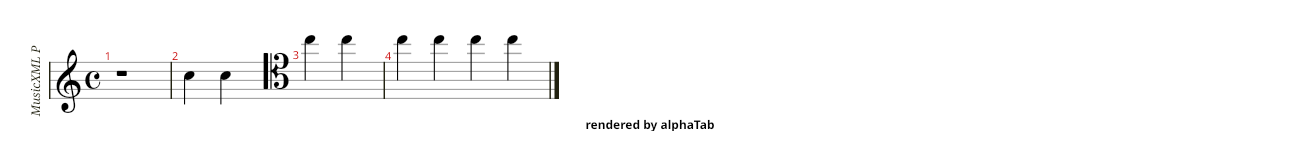
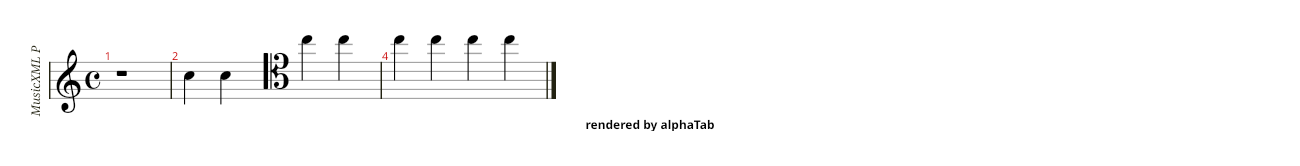
test: update test snapshots

Changed region(s): [[0.2154, 0.3012, 0.4, 0.512], [0.2154, 0.2108, 0.4, 0.2711], [0.4, 0.3614, 0.4308, 0.6024]]

diff --git a/packages/alphatab/test/visualTests/features/Layout.test.ts b/packages/alphatab/test/visualTests/features/Layout.test.ts
@@ -328,4 +328,90 @@ describe('LayoutTests', () => {
             }
         );
     });
+
+    describe('barnumberdisplay', () => {
+        describe('stylesheet', () => {
+            it('all', async () =>
+                await VisualTestHelper.runVisualTestTex(
+                    `
+                    \\defaultBarNumberDisplay allBars
+                    C4.1 | C4.1 | C4.1 |
+                    C4.1 | C4.1 | C4.1 
+                    `,
+                    'test-data/visual-tests/layout/barnumberdisplay-stylesheet-all.png',
+                    undefined,
+                    o => {
+                        o.settings.display.layoutMode = LayoutMode.Parchment;
+                    }
+                ));
+            it('first', async () =>
+                await VisualTestHelper.runVisualTestTex(
+                    `
+                    \\defaultBarNumberDisplay firstOfSystem
+                    C4.1 | C4.1 | C4.1 |
+                    C4.1 | C4.1 | C4.1 
+                    `,
+                    'test-data/visual-tests/layout/barnumberdisplay-stylesheet-first.png',
+                    undefined,
+                    o => {
+                        o.settings.display.layoutMode = LayoutMode.Parchment;
+                    }
+                ));
+            it('hide', async () =>
+                await VisualTestHelper.runVisualTestTex(
+                    `
+                    \\defaultBarNumberDisplay hide
+                    C4.1 | C4.1 | C4.1 |
+                    C4.1 | C4.1 | C4.1 
+                    `,
+                    'test-data/visual-tests/layout/barnumberdisplay-stylesheet-hide.png',
+                    undefined,
+                    o => {
+                        o.settings.display.layoutMode = LayoutMode.Parchment;
+                    }
+                ));
+        });
+
+        describe('bar-override', () => {
+            it('all', async () =>
+                await VisualTestHelper.runVisualTestTex(
+                    `
+                    \\defaultBarNumberDisplay allBars
+                    C4.1 | \\barNumberDisplay hide C4.1 | C4.1 |
+                    C4.1 | C4.1 | C4.1 
+                    `,
+                    'test-data/visual-tests/layout/barnumberdisplay-bar-override-all.png',
+                    undefined,
+                    o => {
+                        o.settings.display.layoutMode = LayoutMode.Parchment;
+                    }
+                ));
+            it('first', async () =>
+                await VisualTestHelper.runVisualTestTex(
+                    `
+                    \\defaultBarNumberDisplay firstOfSystem
+                    C4.1 | \\barNumberDisplay allBars C4.1 | C4.1 |
+                    \\barNumberDisplay hide C4.1 | C4.1 | C4.1 
+                    `,
+                    'test-data/visual-tests/layout/barnumberdisplay-bar-override-first.png',
+                    undefined,
+                    o => {
+                        o.settings.display.layoutMode = LayoutMode.Parchment;
+                    }
+                ));
+            it('hide', async () =>
+                await VisualTestHelper.runVisualTestTex(
+                    `
+                    \\defaultBarNumberDisplay hide
+                    C4.1 | \\barNumberDisplay allBars C4.1 | C4.1 |
+                    \\barNumberDisplay firstOfSystem C4.1 | \\barNumberDisplay firstOfSystem C4.1 | C4.1 
+                    `,
+                    'test-data/visual-tests/layout/barnumberdisplay-bar-override-hide.png',
+                    undefined,
+                    o => {
+                        o.settings.display.layoutMode = LayoutMode.Parchment;
+                    }
+                ));
+        });
+    });
 });

diff --git a/packages/alphatab/src/rendering/LineBarRenderer.ts b/packages/alphatab/src/rendering/LineBarRenderer.ts
@@ -6,6 +6,7 @@ import { GraceType } from '@coderline/alphatab/model/GraceType';
 import { ModelUtils } from '@coderline/alphatab/model/ModelUtils';
 import { MusicFontSymbol } from '@coderline/alphatab/model/MusicFontSymbol';
 import type { Note } from '@coderline/alphatab/model/Note';
+import { BarNumberDisplay } from '@coderline/alphatab/model/RenderStylesheet';
 import type { TupletGroup } from '@coderline/alphatab/model/TupletGroup';
 import { NotationElement, NotationMode } from '@coderline/alphatab/NotationSettings';
 import { CanvasHelper, type ICanvas, TextAlign, TextBaseline } from '@coderline/alphatab/platform/ICanvas';
@@ -172,14 +173,15 @@ export abstract class LineBarRenderer extends BarRendererBase {
         // override in subclasses
     }
 
-    protected createStartSpacing(): void {
+    protected createStartSpacing(): boolean {
         if (this._startSpacing) {
-            return;
+            return false;
         }
         const padding =
             this.index === 0 ? this.settings.display.firstStaffPaddingLeft : this.settings.display.staffPaddingLeft;
         this.addPreBeatGlyph(new SpacingGlyph(0, 0, padding));
         this._startSpacing = true;
+        return true;
     }
 
     protected paintTuplets(
@@ -619,12 +621,37 @@ export abstract class LineBarRenderer extends BarRendererBase {
         super.createPreBeatGlyphs();
         this.addPreBeatGlyph(new BarLineGlyph(false, this.bar.staff.track.score.stylesheet.extendBarLines));
         this.createLinePreBeatGlyphs();
+        let hasSpaceAfterStartGlyphs = false;
         if (this.index === 0) {
-            this.createStartSpacing();
+            hasSpaceAfterStartGlyphs = this.createStartSpacing();
         }
-        if (this.settings.notation.isNotationElementVisible(NotationElement.BarNumber)) {
+
+        if (this.shouldCreateBarNumber()) {
             this.addPreBeatGlyph(new BarNumberGlyph(0, this.getLineHeight(-0.5), this.bar.index + 1));
+        } else if (!hasSpaceAfterStartGlyphs) {
+            this.addPreBeatGlyph(new SpacingGlyph(0, 0, this.smuflMetrics.oneStaffSpace));
         }
+    }
+
+    public shouldCreateBarNumber(): boolean {
+        let display = BarNumberDisplay.AllBars;
+        if (!this.settings.notation.isNotationElementVisible(NotationElement.BarNumber)) {
+            display = BarNumberDisplay.Hide;
+        } else if (this.bar.barNumberDisplay !== undefined) {
+            display = this.bar.barNumberDisplay;
+        } else {
+            display = this.bar.staff.track.score.stylesheet.barNumberDisplay;
+        }
+
+        switch (display) {
+            case BarNumberDisplay.AllBars:
+                return true;
+            case BarNumberDisplay.FirstOfSystem:
+                return this.isFirstOfStaff;
+            case BarNumberDisplay.Hide:
+                return false;
+        }
+        return true;
     }
 
     protected abstract createLinePreBeatGlyphs(): void;

diff --git a/packages/alphatab/src/rendering/NumberedBarRenderer.ts b/packages/alphatab/src/rendering/NumberedBarRenderer.ts
@@ -8,7 +8,6 @@ import { ModelUtils } from '@coderline/alphatab/model/ModelUtils';
 import { MusicFontSymbol } from '@coderline/alphatab/model/MusicFontSymbol';
 import type { Note } from '@coderline/alphatab/model/Note';
 import type { Voice } from '@coderline/alphatab/model/Voice';
-import { NotationElement } from '@coderline/alphatab/NotationSettings';
 import type { ICanvas } from '@coderline/alphatab/platform/ICanvas';
 import { BeatXPosition } from '@coderline/alphatab/rendering/BeatXPosition';
 import { BarLineGlyph } from '@coderline/alphatab/rendering/glyphs/BarLineGlyph';
@@ -18,6 +17,7 @@ import {
     NumberedNoteBeatContainerGlyphBase
 } from '@coderline/alphatab/rendering/glyphs/NumberedDashBeatContainerGlyph';
 import { ScoreTimeSignatureGlyph } from '@coderline/alphatab/rendering/glyphs/ScoreTimeSignatureGlyph';
+import { SpacingGlyph } from '@coderline/alphatab/rendering/glyphs/SpacingGlyph';
 import { LineBarRenderer } from '@coderline/alphatab/rendering/LineBarRenderer';
 import { NumberedBeatContainerGlyph } from '@coderline/alphatab/rendering/NumberedBeatContainerGlyph';
 import type { ScoreRenderer } from '@coderline/alphatab/rendering/ScoreRenderer';
@@ -258,9 +258,11 @@ export class NumberedBarRenderer extends LineBarRenderer {
             this.addPreBeatGlyph(new BarLineGlyph(false, this.bar.staff.track.score.stylesheet.extendBarLines));
         }
         this.createLinePreBeatGlyphs();
-        this.createStartSpacing();
-        if (this.settings.notation.isNotationElementVisible(NotationElement.BarNumber)) {
+        const hasSpaceAfterStartGlyphs = this.createStartSpacing();
+        if (this.shouldCreateBarNumber()) {
             this.addPreBeatGlyph(new BarNumberGlyph(0, this.getLineHeight(-0.5), this.bar.index + 1));
+        } else if (!hasSpaceAfterStartGlyphs) {
+            this.addPreBeatGlyph(new SpacingGlyph(0, 0, this.smuflMetrics.oneStaffSpace));
         }
     }
 

diff --git a/packages/alphatab/src/rendering/glyphs/BarNumberGlyph.ts b/packages/alphatab/src/rendering/glyphs/BarNumberGlyph.ts
@@ -17,13 +17,6 @@ export class BarNumberGlyph extends Glyph {
     }
 
     public override doLayout(): void {
-        // TODO: activate this and update paddings accordingly.
-        // if (!this.renderer.staff!.isFirstInSystem) {
-        //     this.width = 0;
-        //     this.height = 0;
-        //     return;
-        // }
-
         this.renderer.scoreRenderer.canvas!.font = this.renderer.resources.elementFonts.get(NotationElement.BarNumber)!;
         const size = this.renderer.scoreRenderer.canvas!.measureText(this._number);
         this.width = size.width;
